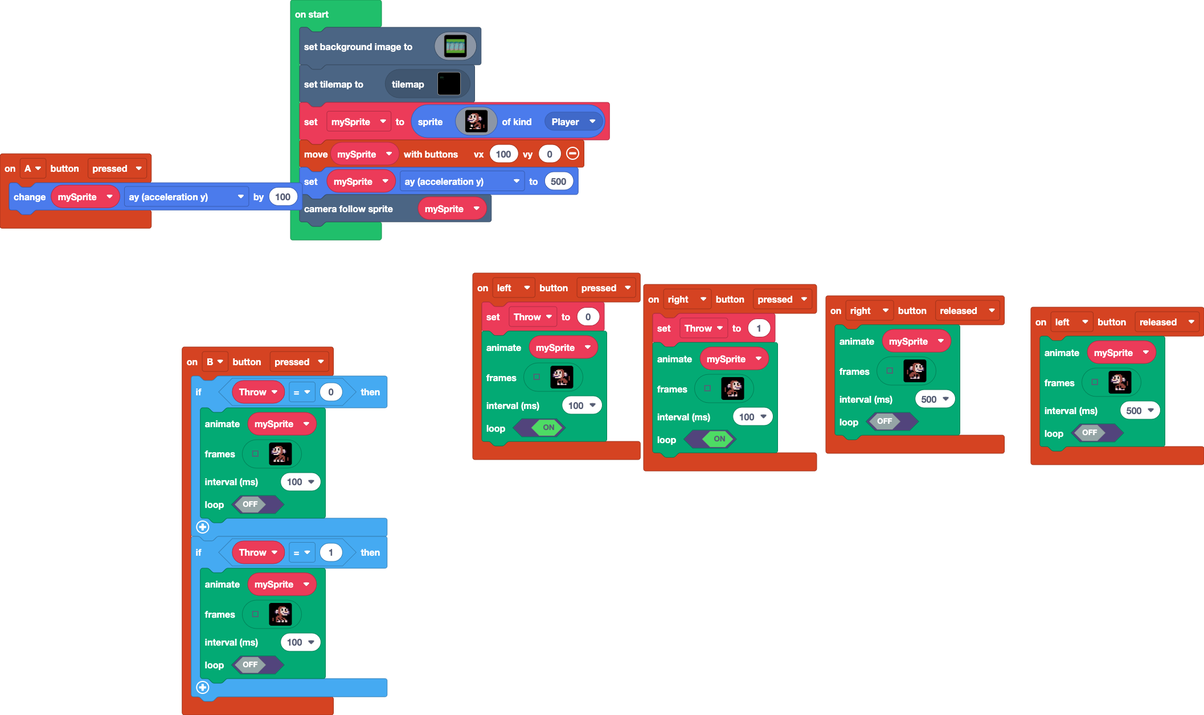
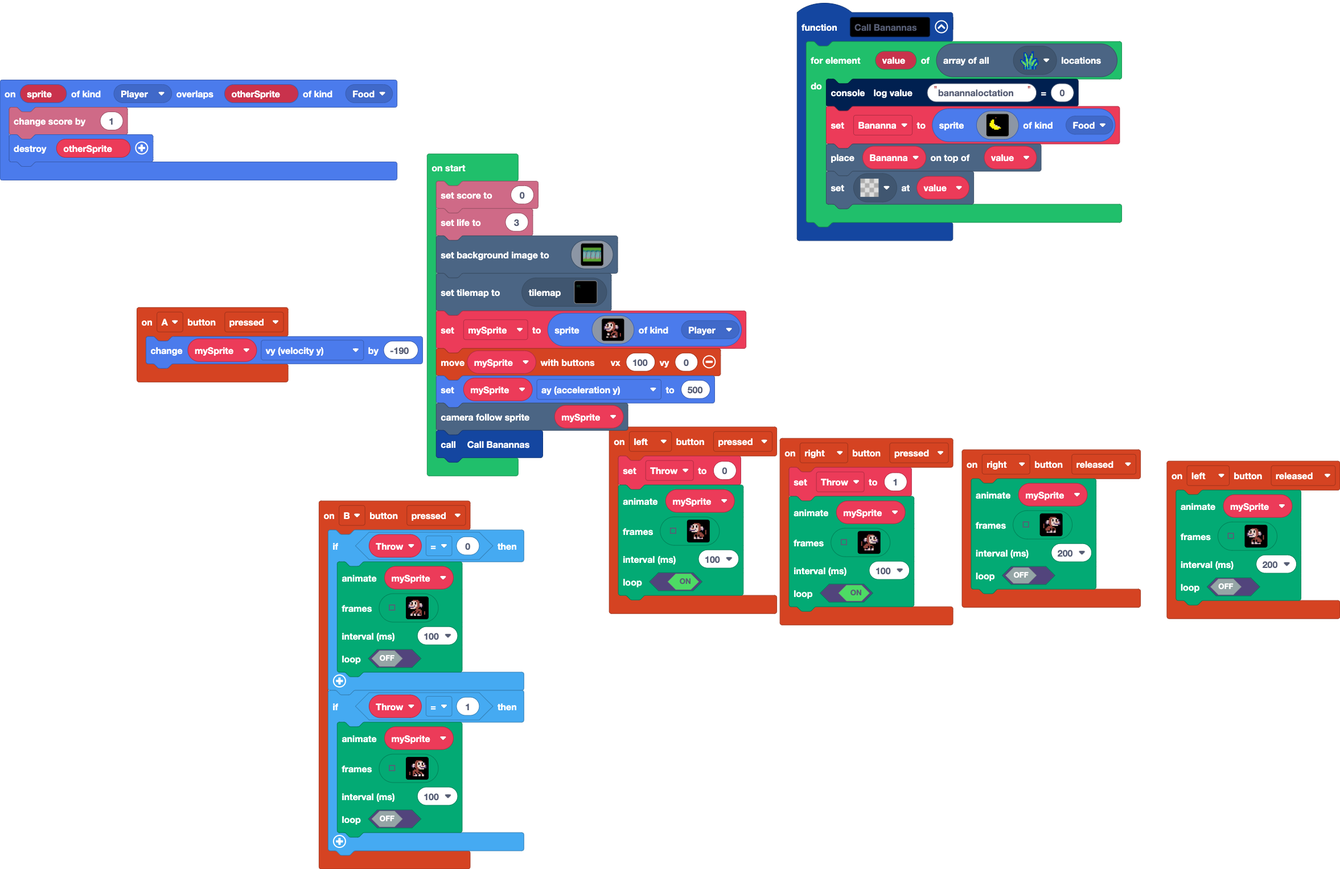
Banannas

diff --git a/tilemap.g.ts b/tilemap.g.ts
@@ -25,7 +25,7 @@ namespace myTiles {
 . . . . . . . . . . . . . . . . 
 `, [myTiles.transparency16], TileScale.Sixteen);
             case "level2":
-            case "level2":return tiles.createTilemap(hex`6400640000000000000000000000000000000000000000000000000000000000000000000000000000000000000000000000000000000000000000000000000000000000000000000000000000000000000000000000000000000000000000000000000000000000000000000000000000000000000000000000000000000000000000000000000000000000000000000000000000000000000000000000000000000000000000000000000000000000000000000000000000000000000000000000000000000000000000000000000000000000000000000000000000000000000000000000000000000000000000000000000000000000000000000000000000000000000000000000000000000000000000000000000000000000000000000000000000000000000000000000000000000000000000000000000000000000000000000000000000000000000000000000000000000000000000000000000000000000000000000000000000000000000000000000000000000000000000000000000000000000000000000000000000000000000000000000000000000000000000000000000000000000000000000000000000000000000000000000000000000000000000000000000000000000000000000000000000000000000000000000000000000000000000000000000000000000000000000000000000000000000000000000000000000000000000000000000000000000000000000000000000000000000000000000000000000000000000000000000000000000000000000000000000000000000000000000000000000000000000000000000000000000000000000000000000000000000000000000000000000000000000000000000000000000000000000000000000000000000000000000000000000000000000000000000000000000000000000000000000000000000000000000000000000000000000000000000000000000000000000000000000000000000000000000000000000000000000000000000000000000000000000000000000000000000000000000000000000000000000000000000000000000000000000000000000000000000000000000000000000000000000000000000000000000000000000000000000000000000000000000000000000000000000000000000000000000000000000000000000000000000000000000000000000000000000000000000000000000000000000000000000000000000000000000000000000000000000000000000000000000000000000000000000000000000000000000000000000000000000000000000000000000000000000000000000000000000000000000000000000000000000000000000000000000000000000000000000000000000000000000000000000000000000000000000000000000000000000000000000000000000000000000000000000000000000000000000000000000000000000000000000000000000000000000000000000000000000000000000000000000000000000000000000000000000000000000000000000000000000000000000000000000000000000000000000000000000000000000000000000000000000000000000000000000000000000000000000000000000000000000000000000000000000000000000000000000000000000000000000000000000000000000000000000000000000000000000000000000000000000000000000000000000000000000000000000000000000000000000000000000000000000000000000000000010101010101010101010101010101010000010000000000000000000000000000000000000000000000000000000000000000000000000000000000000000000000000000000000000000000000000000000000000000000000000000000000000000000100000000000000000000000000000000000100000000000000000000000000000000000000000000000000000000000000000000000000000000000000000000000000000000000000000000000000000000000000000000000000000000000000000001000000000000000000000000000000000001000000000000000000000000000000000000000000000000000000000000000000000000000000000000000000000000000000000000000000000000000000000000000000000000000000000000000000010000000000000000000000000000000001010000000000000000000000000000000000000000000000000000000000000000000000000000000000000000000000000000000000000000000000000000000000000000000000000000000000000000000100010101010101010101010101010101000000000000000000000000000000000000000000000000000000000000000000000000000000000000000000000000000000000000000000000000000000000000000000000000000000000000000000000001000000000000000000000000000000000000000000000000000000000000000000000000000000000000000000000000000000000000000000000000000000000000000000000000000000000000000000000000000000000000000000000000000000000000000000000000000000000000000000000000000000000000000000000000000000000000000000000000000000000000000000000000000000000000000000000000000000000000000000000000000000000000000000000000000000000000000000000000000000000000000000000000000000000000000000000000000000000000000000000000000000000000000000000000000000000000000000000000000000000000000000000000000000000000000000000000000000000000000000000000000000000000000000000000000000000000000000000000000000000000000000000000000000000000000000000000000000000000000000000000000000000000000000000000000000000000000000000000000000000000000000000000000000000101000000000000000000000001000000000000000000000000000000000000000000000000000000000000000000000000000000000000000000000000000000000000000000000000000000000000000000000000000000000000000000000000000000000000000000010000000001000000000000000000000000000000000000000000000000000000000000000000000000000000000000000000000000000000000000000000000000000000000000000000000000000000000000000000000000000000000000000000010000000000000000000001000000000000000000000000000000000000000000000000000000000000000000000000000000000000000000000000000000000000000000000000000000000000000000000000000000000000000000000000000000000000000000000000000000000100000000000000000000000000000000000000000000000000000000000000000000000000000000000000000000000000000000000000000000000000000000000000000000000000000000000000000000000000000000000000000000000000000000000000000000000000000000000000000000000000000000000000000000000000000000000000000000000000000000000000000000000000000000000000000000000000000000000000000000000000000000000000000000000000000000000000000000000000000000000000000000000000000000000000000000000000000000000000000000000000000000000000000000000000000000000000000000000000000000000000000000000000000000000000000000000000000000000000000000000000000000000000000000000000000000000000000000000000000000000000000000000000000000000000000000000000000000000000000000000000000000000000000000000000000000000000000000000000000000000000000000000000000000000000000000000000000000000000000000000000000000000000000000000000000000000000000000000000000000000000000000000000000000000000000000000000000000000000000000000000000000000000000000000000000000000000000000000000000000000000000000000000000000000000000000000000000000000000000000000000000000000000000000000000000000000000000000000000000000000000000000000000000000000000000000000000000000000000000000000000000000000000000000000000000000000000000000000000000000000000000000000000000000000000000000000000000000000000000000000000000000000000000000000000000000000000000000000000000000000000000000000000000000000000000000000000000000000000000000000000000000000000000000000000000000000000000000000000000000000000000000000000000000000000000000000000000000000000000000000000000000000000000000000000000000000000000000000000000000000000000000000000000000000000000000000000000000000000000000000000000000000000000000000000000000000000000000000000000000000000000000000000000000000000000000000000000000000000000000000000000000000000000000000000000000000000000000000000000000000000000000000000000000000000000000000000000000000000000000000000000000000000000000000000000000000000000000000000000000000000000000000000000000000000000000000000000000000000000000000000000000000000000000000000000000000000000000000000000000000000000000000000000000000000000000000000000000000000000000000000000000000000000000000000000000000000000000000000000000000000000000000000000000000000000000000000000000000000000000000000000000000000000000000000000000000000000000000000000000000000000000000000000000000000000000000000000000000000000000000000000000000000000000000000000000000000000000000000000000000000000000000000000000000000000000000000000000000000000000000000000000000000000000000000000000000000000000000000000000000000000000000000000000000000000000000000000000000000000000000000000000000000000000000000000000000000000000000000000000000000000000000000000000000000000000000000000000000000000000000000000000000000000000000000000000000000000000000000000000000000000000000000000000000000000000000000000000000000000000000000000000000000000000000000000000000000000000000000000000000000000000000000000000000000000000000000000000000000000000000000000000000000000000000000000000000000000000000000000000000000000000000000000000000000000000000000000000000000000000000000000000000000000000000000000000000000000000000000000000000000000000000000000000000000000000000000000000000000000000000000000000000000000000000000000000000000000000000000000000000000000000000000000000000000000000000000000000000000000000000000000000000000000000000000000000000000000000000000000000000000000000000000000000000000000000000000000000000000000000000000000000000000000000000000000000000000000000000000000000000000000000000000000000000000000000000000000000000000000000000000000000000000000000000000000000000000000000000000000000000000000000000000000000000000000000000000000000000000000000000000000000000000000000000000000000000000000000000000000000000000000000000000000000000000000000000000000000000000000000000000000000000000000000000000000000000000000000000000000000000000000000000000000000000000000000000000000000000000000000000000000000000000000000000000000000000000000000000000000000000000000000000000000000000000000000000000000000000000000000000000000000000000000000000000000000000000000000000000000000000000000000000000000000000000000000000000000000000000000000000000000000000000000000000000000000000000000000000000000000000000000000000000000000000000000000000000000000000000000000000000000000000000000000000000000000000000000000000000000000000000000000000000000000000000000000000000000000000000000000000000000000000000000000000000000000000000000000000000000000000000000000000000000000000000000000000000000000000000000000000000000000000000000000000000000000000000000000000000000000000000000000000000000000000000000000000000000000000000000000000000000000000000000000000000000000000000000000000000000000000000000000000000000000000000000000000000000000000000000000000000000000000000000000000000000000000000000000000000000000000000000000000000000000000000000000000000000000000000000000000000000000000000000000000000000000000000000000000000000000000000000000000000000000000000000000000000000000000000000000000000000000000000000000000000000000000000000000000000000000000000000000000000000000000000000000000000000000000000000000000000000000000000000000000000000000000000000000000000000000000000000000000000000000000000000000000000000000000000000000000000000000000000000000000000000000000000000000000000000000000000000000000000000000000000000000000000000000000000000000000000000000000000000000000000000000000000000000000000000000000000000000000000000000000000000000000000000000000000000000000000000000000000000000000000000000000000000000000000000000000000000000000000000000000000000000000000000000000000000000000000000000000000000000000000000000000000000000000000000000000000000000000000000000000000000000000000000000000000000000000000000000000000000000000000000000000000000000000000000000000000000000000000000000000000000000000000000000000000000000000000000000000000000000000000000000000000000000000000000000000000000000000000000000000000000000000000000000000000000000000000000000000000000000000000000000000000000000000000000000000000000000000000000000000000000000000000000000000000000000000000000000000000000000000000000000000000000000000000000000000000000000000000000000000000000000000000000000000000000000000000000000000000000000000000000000000000000000000000000000000000000000000000000000000000000000000000000000000000000000000000000000000000000000000000000000000000000000000000000000000000000000000000000000000000000000000000000000000000000000000000000000000000000000000000000000000000000000000000000000000000000000000000000000000000000000000000000000000000000000000000000000000000000000000000000000000000000000000000000000000000000000000000000000000000000000000000000000000000000000000000000000000000000000000000000000000000000000000000000000000000000000000000000000000000000000000000000000000000000000000000000000000000000000000000000000000000000000000000000000000000000000000000000000000000000000000000000000000000000000000000000000000000000000000000000000000000000000000000000000000000000000000000000000000000000000000000000000000000000000000000000000000000000000000000000000000000000000000000000000000000000000000000000000000000000000000000000000000000000000000000000000000000000000000000000000000000000000000000000000000000000000000000000000000000000000000000000000000000000000000000000000000000000000000000000000000000000000000000000000000000000000000000000000000000000000000000000000000000000000000000000000000000000000000000000000000000000000000000000000000000000000000000000000000000000000000000000000000000000000000000000000000000000000000000000000000000000000000000000000000000000000000000000000000000000000000000000000000000000000000000000000000000000000000000000000000000000000000000000000000000000000000000000000000000000000000000000000000000000000000000000000000000000000000000000000000000000000000000000000000000000000000000000000000000000000000000000000000000000000000000000000000000000000000000000000000000000000000000000000000000000000000000000000000000000000000000000000000000000000000000000000000000000000000000000000000000000000000000000000000000000000000000000000000000000000000000000000000000000000000000000000000000000000000000000000000000000000000000000000000000000000000000000000000000000000000000000000000000000000000000000000000000000000000000000000000000000000000000000000000000000000000000000000000000000000000000000000000000000000000000000000000000000000000000000000000000000000000000000000000000000000000000000000000000000000000000000000000000000000000000000000000000000000000000000000000000000000000000000000000000000000000000000000000000000000000000000000000000000000000000000000000000000000000000000000000000000000000000000000000000000000000000000000000000000000000000000000000000000000000000000000000000000000000000000000000000000000000000000000000000000000000000000000000000000000000000000000000000000000000000000000000000000000000000000000000000000000000000000000000000000000000000000000000000000000000000000000000000000000000000000000000000000000000000000000000000000000000000000000000000000000000000000000000000000000000000000000000000000000000000000000000000000000000000000000000000000000000000000000000000000000000000000000000000000000000000000000000000000000000000000000000000000000000000000000000000000000000000000000000000000000000000000000000000000000000000000000000000000000000000000000000000000000000000000000000000000000000000000000000000000000000000000000000000000000000000000000000000000000000000000000000000000000000000000000000000000000000000000000000000000000000000000000000000000000000000000000000000000000000000000000000000000000000000000000000000000000000000000000000000000000000000000000000000000000000000000000000000000000000000000000000000000000000000000000000000000000000000000000000000000000000000000000000000000000000000000000000000000000000000000000000000000000000000000000000000000000000000000000000000000000000000000000000000000000000000000000000000000000000000000000000000000000000000000000000000000000000000000000000000000000000000000000000000000000000000000000000000000000000000000000000000000000000000000000000000000000000000000000000000000000000000000000000000000000000000000000000000000000000000000000000000000000000000000000000000000000000000000000000000000000000000000000000000000000000000000000000000000000000000000000000000000000000000000000000000000000000000000000000000000000000000000000000000000000000000000000000000000000000000000000000000000000000000000000000000000000000000000000000000000000000000000000000000000000000000000000000000000000000000000000000000000000000000000000000000000000000000000000000000000000000000000000000000000000000000000000000000000000000000000000000000000000000000000000000000000000000000000000000000000000000000000000000000000000000000000000000000000000000000000000000000000000000000000000000000000000000000000000000000000000000000000000000000000000000000000000000000000000000000000000000000000000000000000000000000000000000000000000000000000000000000000000000000000000000000000000000000000000000000000000000000000000000000000000000000000000000000000000000000000000000000000000000000000000000000000000000000000000000000000000000000000000000000000000000000000000000000000000000000000000000000000000000000000000000000000000000000000000000000000000000000000000000000000000000000000000000000000000000000000000000000000000000000000000000000000000000000000000000000000000000000000000000000000000000000000000000000000000000000000000000000000000000000000000000000000000000000000000000000000000000000000000000000000000000000000000000000000000000000000000000000000000000000000000000000000000000000000000000000000000000000000000000000000000000000000000000000000000000000000000000000000000000000000000000000000000000000000000000000000000000000000000000000000000000000000000000000000000000000000000000000000000000000000000000000000000000000000000000000000000000000000000000000000000000000000000000000000000000000000000000000000000000000000000000000000000000000000000000000000000000000000000000000000000000000000000000000000000000000000000000000000000000000000000000000000000000000000000000000000000000000000000000000000000000000000000000000000000000000000000000000000000000000000000000000000000000000000000000000000000000000000000000000000000000000000000000000000000000000000000000000000000000000000000000000000000000000000000000000000000000000000000000000000000000000000000000000000000000000000000000000000000000000000000000000000000000000000000000000000000000000000000000000000000000000000000000000000000000000000000000000000000000000000000000000000000000000000000000000000000000000000000000000000000000000000000000000000000000000000000000000000000000000000000000000000000000000000000000000000000000000000000000000000000000000000000000000000000000000000000000000000000000000000000000000000000000000000000000000000000000000000000000000000000000000000000000000000000000000000000000000000000000000000000000000000000000000000000000000000000000000000000000000000000000000000000000000000000000000000000000000000000000000000000000000000000000000000000000000000000000000000000000000000000000000000000000000000000000000000000000000000000000000000000000000000000000000000000000000000000000000000000000000000000000000000000000000000000000000000000000000000000000000000000000000000000000000000000000000000000000000000000000000000000000000000000000000000000000000000000000000000000000000000000000000000000000000000000000000000000000000000000000000000000000000000000000000000000000000000000000000000000000000000000000000000000000000000000000000000000000000000000000000000000000000000000000000000000000000000000000000000000000000000000000000000000000000000000000000000000000000000000000000000000000000000000000000000000000000000000000000000000000000000000000000000000000000000000000000000000000000000000000000000000000000000000000000000000000000000000000000000000000000000000000000000000000000000000000000000000000000000000000000000000000000000000000000000000000000000000000000000000000000000000000000000000000000000000000000000000000000000000000000000000000000000000000000000000000000000000000000000000000000000000000000000000000000000000000000000000000000000000000000000000000000000000000000000000000000000000000000000000000000000000000000000000000000000000000000000000000000000000000000000000000000000000000000000000000000000000000000000000000000000000000000000000000000000000000000000000000000000000000000000000000000000000000000000000000000000000000000000000000000000000000000000000000000000000000000000000000000000000000000000000000000000000000000000000000000000000000000000000000000000000000000000000000000000000000000000000000000000000000000000000000000000000000000000000000000000000000000000000000000000000000000000000000000000000000000000000000000000000000000000000000000000000000000000000000000000000000000000000000000000000000000000000000000000000000000000000000000000000000000000000000000000000000000000000000000000000000000000000`, img`
+            case "level2":return tiles.createTilemap(hex`6400640000000000000000000000000000000000000000000000000000000000000000000000000000000000000000000000000000000000000000000000000000000000000000000000000000000000000000000000000000000000000000000000000000000000000000000000000000000000000000000000000000000000000000000000000000000000000000000000000000000000000000000000000000000000000000000000000000000000000000000000000000000000000000000000000000000000000000000000000000000000000000000000000000000000000000000000000000000000000000000000000000000000000000000000000000000000000000000000000000000000000000000000000000000000000000000000000000000000000000000000000000000000000000000000000000000000000000000000000000000000000000000000000000000000000000000000000000000000000000000000000000000000000000000000000000000000000000000000000000000000000000000000000000000000000000000000000000000000000000000000000000000000000000000000000000000000000000000000000000000000000000000000000000000000000000000000000000000000000000000000000000000000000000000000000000000000000000000000000000000000000000000000000000000000000000000000000000000000000000000000000000000000000000000000000000000000000000000000000000000000000000000000000000000000000000000000000000000000000000000000000000000000000000000000000000000000000000000000000000000000000000000000000000000000000000000000000000000000000000000000000000000000000000000000000000000000000000000000000000000000000000000000000000000000000000000000000000000000000000000000000000000000000000000000000000000000000000000000000000000000000000000000000000000000000000000000000000000000000000000000000000000000000000000000000000000000000000000000000000000000000000000000000000000000000000000000000000000000000000000000000000000000000000000000000000000000000000000000000000000000000000000000000000000000000000000000000000000000000000000000000000000000000000000000000000000000000000000000000000000000000000000000000000000000000000000000000000000000000000000000000000000000000000000000000000000000000000000000000000000000000000000000000000000000000000000000000000000000000000000000000000000000000000000000000000000000000000000000000000000000000000000000000000000000000000000000000000000000000000000000000000000000000000000000000000000000000000000000000000000000000000000000000000000000000000000000000000000000000000000000000000000000000000000000000000000000000000000000000000000000000000000000000000000000000000000000000000000000000000000000000000000000000000000000000000000002000000000000000000000000000000000000000000000000000000000000000000000000000000000000000000000000000000000000000000000000000000000000000000000000000000000000000000000000010101010101010101010101010101010000010000000000000000000000000000000000000000000000000000000000000000000000000000000000000000000000000000000000000000000000000000000000000000000000000000000000000000000102000000000000000000000000000000000100000000000000000000000000000000000000000000000000000000000000000000000000000000000000000000000000000000000000000000000000000000000000000000000000000000000000000001020000000000000000000000000000000201000000000000000000000000000000000000000000000000000000000000000000000000000000000000000000000000000000000000000000000000000000000000000000000000000000000000000000010000000000000000000000000000000001010000000000000000000000000000000000000000000000000000000000000000000000000000000000000000000000000000000000000000000000000000000000000000000000000000000000000000000100010101010101010101010101010101000000000000000000000000000000000000000000000000000000000000000000000000000000000000000000000000000000000000000000000000000000000000000000000000000000000000000000000001000000000000000000000000000000000000000000000000000000000000000000000000000000000000000000000000000000000000000000000000000000000000000000000000000000000000000000000000000000000000000000000000000000000000000000000000000000000000000000000000000000000000000000000000000000000000000000000000000000000000000000000000000000000000000000000000000000000000000000000000000000000000000000000000000000000000000000000000000000000000000000000000000000000000000000000000000000000000000000000000000000000000000000000000000000000000000000000000000000000000000000000000000000000000000000000000000000000000000000000000000200000000000000000000000200000000000000000000000000000000000000000000000000000000000000000000000000000000000000000000000000000000000000000000000000000000000000000000000000000000000000000000000000000101000000000002000000000001000000000000000000000000000000000000000000000000000000000000000000000000000000000000000000000000000000000000000000000000000000000000000000000000000000000000000000000000000000000000000000010000000001000000000000000000000000000000000000000000000000000000000000000000000000000000000000000000000000000000000000000000000000000000000000000000000000000000000000000000000000000000000000000000010000000000000000000001020000000000000000000000000000000000000000000000000000000000000000000000000000000000000000000000000000000000000000000000000000000000000000000000000000000000000000000000000000000000000000000000000000000300000000000000000000000000000000000000000000000000000000000000000000000000000000000000000000000000000000000000000000000000000000000000000000000000000000000000000000000000000000000000000000000000000000000000000000000000000000000000000000000000000000000000000000000000000000000000000000000000000000000000000000000000000000000000000000000000000000000000000000000000000000000000000000000000000000000000000000000000000000000000000000000000000000000000000000000000000000000000000000000000000000000000000000000000000000000000000000000000000000000000000000000000000000000000000000000000000000000000000000000000000000000000000000000000000000000000000000000000000000000000000000000000000000000000000000000000000000000000000000000000000000000000000000000000000000000000000000000000000000000000000000000000000000000000000000000000000000000000000000000000000000000000000000000000000000000000000000000000000000000000000000000000000000000000000000000000000000000000000000000000000000000000000000000000000000000000000000000000000000000000000000000000000000000000000000000000000000000000000000000000000000000000000000000000000000000000000000000000000000000000000000000000000000000000000000000000000000000000000000000000000000000000000000000000000000000000000000000000000000000000000000000000000000000000000000000000000000000000000000000000000000000000000000000000000000000000000000000000000000000000000000000000000000000000000000000000000000000000000000000000000000000000000000000000000000000000000000000000000000000000000000000000000000000000000000000000000000000000000000000000000000000000000000000000000000000000000000000000000000000000000000000000000000000000000000000000000000000000000000000000000000000000000000000000000000000000000000000000000000000000000000000000000000000000000000000000000000000000000000000000000000000000000000000000000000000000000000000000000000000000000000000000000000000000000000000000000000000000000000000000000000000000000000000000000000000000000000000000000000000000000000000000000000000000000000000000000000000000000000000000000000000000000000000000000000000000000000000000000000000000000000000000000000000000000000000000000000000000000000000000000000000000000000000000000000000000000000000000000000000000000000000000000000000000000000000000000000000000000000000000000000000000000000000000000000000000000000000000000000000000000000000000000000000000000000000000000000000000000000000000000000000000000000000000000000000000000000000000000000000000000000000000000000000000000000000000000000000000000000000000000000000000000000000000000000000000000000000000000000000000000000000000000000000000000000000000000000000000000000000000000000000000000000000000000000000000000000000000000000000000000000000000000000000000000000000000000000000000000000000000000000000000000000000000000000000000000000000000000000000000000000000000000000000000000000000000000000000000000000000000000000000000000000000000000000000000000000000000000000000000000000000000000000000000000000000000000000000000000000000000000000000000000000000000000000000000000000000000000000000000000000000000000000000000000000000000000000000000000000000000000000000000000000000000000000000000000000000000000000000000000000000000000000000000000000000000000000000000000000000000000000000000000000000000000000000000000000000000000000000000000000000000000000000000000000000000000000000000000000000000000000000000000000000000000000000000000000000000000000000000000000000000000000000000000000000000000000000000000000000000000000000000000000000000000000000000000000000000000000000000000000000000000000000000000000000000000000000000000000000000000000000000000000000000000000000000000000000000000000000000000000000000000000000000000000000000000000000000000000000000000000000000000000000000000000000000000000000000000000000000000000000000000000000000000000000000000000000000000000000000000000000000000000000000000000000000000000000000000000000000000000000000000000000000000000000000000000000000000000000000000000000000000000000000000000000000000000000000000000000000000000000000000000000000000000000000000000000000000000000000000000000000000000000000000000000000000000000000000000000000000000000000000000000000000000000000000000000000000000000000000000000000000000000000000000000000000000000000000000000000000000000000000000000000000000000000000000000000000000000000000000000000000000000000000000000000000000000000000000000000000000000000000000000000000000000000000000000000000000000000000000000000000000000000000000000000000000000000000000000000000000000000000000000000000000000000000000000000000000000000000000000000000000000000000000000000000000000000000000000000000000000000000000000000000000000000000000000000000000000000000000000000000000000000000000000000000000000000000000000000000000000000000000000000000000000000000000000000000000000000000000000000000000000000000000000000000000000000000000000000000000000000000000000000000000000000000000000000000000000000000000000000000000000000000000000000000000000000000000000000000000000000000000000000000000000000000000000000000000000000000000000000000000000000000000000000000000000000000000000000000000000000000000000000000000000000000000000000000000000000000000000000000000000000000000000000000000000000000000000000000000000000000000000000000000000000000000000000000000000000000000000000000000000000000000000000000000000000000000000000000000000000000000000000000000000000000000000000000000000000000000000000000000000000000000000000000000000000000000000000000000000000000000000000000000000000000000000000000000000000000000000000000000000000000000000000000000000000000000000000000000000000000000000000000000000000000000000000000000000000000000000000000000000000000000000000000000000000000000000000000000000000000000000000000000000000000000000000000000000000000000000000000000000000000000000000000000000000000000000000000000000000000000000000000000000000000000000000000000000000000000000000000000000000000000000000000000000000000000000000000000000000000000000000000000000000000000000000000000000000000000000000000000000000000000000000000000000000000000000000000000000000000000000000000000000000000000000000000000000000000000000000000000000000000000000000000000000000000000000000000000000000000000000000000000000000000000000000000000000000000000000000000000000000000000000000000000000000000000000000000000000000000000000000000000000000000000000000000000000000000000000000000000000000000000000000000000000000000000000000000000000000000000000000000000000000000000000000000000000000000000000000000000000000000000000000000000000000000000000000000000000000000000000000000000000000000000000000000000000000000000000000000000000000000000000000000000000000000000000000000000000000000000000000000000000000000000000000000000000000000000000000000000000000000000000000000000000000000000000000000000000000000000000000000000000000000000000000000000000000000000000000000000000000000000000000000000000000000000000000000000000000000000000000000000000000000000000000000000000000000000000000000000000000000000000000000000000000000000000000000000000000000000000000000000000000000000000000000000000000000000000000000000000000000000000000000000000000000000000000000000000000000000000000000000000000000000000000000000000000000000000000000000000000000000000000000000000000000000000000000000000000000000000000000000000000000000000000000000000000000000000000000000000000000000000000000000000000000000000000000000000000000000000000000000000000000000000000000000000000000000000000000000000000000000000000000000000000000000000000000000000000000000000000000000000000000000000000000000000000000000000000000000000000000000000000000000000000000000000000000000000000000000000000000000000000000000000000000000000000000000000000000000000000000000000000000000000000000000000000000000000000000000000000000000000000000000000000000000000000000000000000000000000000000000000000000000000000000000000000000000000000000000000000000000000000000000000000000000000000000000000000000000000000000000000000000000000000000000000000000000000000000000000000000000000000000000000000000000000000000000000000000000000000000000000000000000000000000000000000000000000000000000000000000000000000000000000000000000000000000000000000000000000000000000000000000000000000000000000000000000000000000000000000000000000000000000000000000000000000000000000000000000000000000000000000000000000000000000000000000000000000000000000000000000000000000000000000000000000000000000000000000000000000000000000000000000000000000000000000000000000000000000000000000000000000000000000000000000000000000000000000000000000000000000000000000000000000000000000000000000000000000000000000000000000000000000000000000000000000000000000000000000000000000000000000000000000000000000000000000000000000000000000000000000000000000000000000000000000000000000000000000000000000000000000000000000000000000000000000000000000000000000000000000000000000000000000000000000000000000000000000000000000000000000000000000000000000000000000000000000000000000000000000000000000000000000000000000000000000000000000000000000000000000000000000000000000000000000000000000000000000000000000000000000000000000000000000000000000000000000000000000000000000000000000000000000000000000000000000000000000000000000000000000000000000000000000000000000000000000000000000000000000000000000000000000000000000000000000000000000000000000000000000000000000000000000000000000000000000000000000000000000000000000000000000000000000000000000000000000000000000000000000000000000000000000000000000000000000000000000000000000000000000000000000000000000000000000000000000000000000000000000000000000000000000000000000000000000000000000000000000000000000000000000000000000000000000000000000000000000000000000000000000000000000000000000000000000000000000000000000000000000000000000000000000000000000000000000000000000000000000000000000000000000000000000000000000000000000000000000000000000000000000000000000000000000000000000000000000000000000000000000000000000000000000000000000000000000000000000000000000000000000000000000000000000000000000000000000000000000000000000000000000000000000000000000000000000000000000000000000000000000000000000000000000000000000000000000000000000000000000000000000000000000000000000000000000000000000000000000000000000000000000000000000000000000000000000000000000000000000000000000000000000000000000000000000000000000000000000000000000000000000000000000000000000000000000000000000000000000000000000000000000000000000000000000000000000000000000000000000000000000000000000000000000000000000000000000000000000000000000000000000000000000000000000000000000000000000000000000000000000000000000000000000000000000000000000000000000000000000000000000000000000000000000000000000000000000000000000000000000000000000000000000000000000000000000000000000000000000000000000000000000000000000000000000000000000000000000000000000000000000000000000000000000000000000000000000000000000000000000000000000000000000000000000000000000000000000000000000000000000000000000000000000000000000000000000000000000000000000000000000000000000000000000000000000000000000000000000000000000000000000000000000000000000000000000000000000000000000000000000000000000000000000000000000000000000000000000000000000000000000000000000000000000000000000000000000000000000000000000000000000000000000000000000000000000000000000000000000000000000000000000000000000000000000000000000000000000000000000000000000000000000000000000000000000000000000000000000000000000000000000000000000000000000000000000000000000000000000000000000000000000000000000000000000000000000000000000000000000000000000000000000000000000000000000000000000000000000000000000000000000000000000000000000000000000000000000000000000000000000000000000000000000000000000000000000000000000000000000000000000000000000000000000000000000000000000000000000000000000000000000000000000000000000000000000000000000000000000000000000000000000000000000000000000000000000000000000000000000000000000000000000000000000000000000000000000000000000000000000000000000000000000000000000000000000000000000000000000000000000000000000000000000000000000000000000000000000000000000000000000000000000000000000000000000000000000000000000000000000000000000000000000000000000000000000000000000000000000000000000000000000000000000000000000000000000000000000000000000000000000000000000000000000000000000000000000000000000000000000000000000000000000000000000000000000000000000000000000000000000000000000000000000000000000000000000000000000000000000000000000000000000000000000000000000000000000000000000000000000000000000000000000000000000000000000000000000000000000000000000000000000000000000000000000000000000000000000000000000000000000000000000000000000000000000000000000000000000000000000000000000000000000000000000000000000000000000000000000000000000000000000000000000000000000000000000000000000000000000000000000000000000000000000000000000000000000000000000000000000000000000000000000000000000000000000000000000000000000000000000000000000000000000000000000000000000000000000000000000000000000000000000000000000000000000000000000000000000000000000000000000000000000000000000000000000000000000000000000000000000000000000000000000000000000000000000000000000000000000000000000000000000000000000000000000000000000000000000000000000000000000000000000000000000000000000000000000000000000000000000000000000000000000000000000000000000000000000000000000000000000000000000000000000000000000000000000000000000000000000000000000000000000000000000000000000000000000000000000000000000000000000000000000000000000000000000000000000000000000000000000000000000000000000000000000000000000000000000000000000000000000000000000000000000000000000000000000000000000000000000000000000000000000000000000000000000000000000000000000000000000000000000000000000000000000000000000000000000000000000000000000000000000000000000000000000000000000000000000000000000000000000000000000000000000000000000000000000000000000000000000000000000000000000000000000000000000000000000000000000000000000000000000000000000000000000000000000000000000000000000000000000000000000000000000000000000000000000000000000000000000000000000000000000000000000000000000000000000000000000000000000000000000000000000000000000000000000000000000000000000000000000000000000000000000000000000000000000000000000000000000000000000000000000000000000000000000000000000000000000000000000000000000000000000000000000000000000000000000000000000000000000000000000000000000000000000000000000000000000000000000000000000000000000000000000000000000000000000000000000000000000000000000000000000000000000000000000000000000000000000000000000000000000000000000000000000000000000000000000000000000000000000000000000000000000000000000000000000000000000000000000000000000000000000000000000000000000000000000000000000000000000000000000000000000000000000000000000000000000000000000000000000000000000000000000000000000000000000000000000000000000000000000000000000000000000000000000000000000000000000000000000000000000000000000000000000000000000000000000000000000`, img`
 ....................................................................................................
 ....................................................................................................
 ....................................................................................................
@@ -126,7 +126,7 @@ namespace myTiles {
 ....................................................................................................
 ....................................................................................................
 ....................................................................................................
-`, [myTiles.transparency16,sprites.builtin.forestTiles0], TileScale.Sixteen);
+`, [myTiles.transparency16,sprites.builtin.forestTiles0,sprites.swamp.swampTile3,sprites.builtin.forestTiles4], TileScale.Sixteen);
         }
         return null;
     })

diff --git a/main.ts b/main.ts
@@ -221,7 +221,7 @@ controller.B.onEvent(ControllerButtonEvent.Pressed, function () {
     }
 })
 controller.A.onEvent(ControllerButtonEvent.Pressed, function () {
-    mySprite.ay += 100
+    mySprite.vy += -190
 })
 controller.left.onEvent(ControllerButtonEvent.Pressed, function () {
     Throw = 0
@@ -338,7 +338,7 @@ controller.right.onEvent(ControllerButtonEvent.Released, function () {
         . . . f d b b d d c d d f . . . 
         . . . f f f f f f f f f . . . . 
         `],
-    500,
+    200,
     false
     )
 })
@@ -363,7 +363,7 @@ controller.left.onEvent(ControllerButtonEvent.Released, function () {
         . . . f d d c d d b b d f . . . 
         . . . . f f f f f f f f f . . . 
         `],
-    500,
+    200,
     false
     )
 })
@@ -461,8 +461,40 @@ controller.right.onEvent(ControllerButtonEvent.Pressed, function () {
     true
     )
 })
+function Call_Banannas () {
+    for (let value of tiles.getTilesByType(sprites.swamp.swampTile3)) {
+        console.logValue("banannaloctation", 0)
+        Bananna = sprites.create(img`
+            . . . . . f f f . . . . . . . . 
+            . . . . . f e f . . . . . . . . 
+            . . . f f f f f . . . . . . . . 
+            . . f 5 5 f . . . . . . . . . . 
+            . f 5 5 5 f . . . . . . . . . . 
+            . f 5 5 5 f . . . . . . . . . . 
+            f 5 5 5 5 f . . . . . . . . . . 
+            f 5 5 5 5 d f f . . . . . . . . 
+            f 5 5 5 5 5 d d f f . . . . . . 
+            . f 5 5 5 5 5 5 d d f f . . . . 
+            . . f 5 5 5 5 5 5 5 5 f . . . . 
+            . . . f f 5 5 5 5 f f . . . . . 
+            . . . . . f f f f f . . . . . . 
+            . . . . . . . . . . . . . . . . 
+            . . . . . . . . . . . . . . . . 
+            . . . . . . . . . . . . . . . . 
+            `, SpriteKind.Food)
+        tiles.placeOnTile(Bananna, value)
+        tiles.setTileAt(value, assets.tile`transparency16`)
+    }
+}
+sprites.onOverlap(SpriteKind.Player, SpriteKind.Food, function (sprite, otherSprite) {
+    info.changeScoreBy(1)
+    otherSprite.destroy()
+})
+let Bananna: Sprite = null
 let Throw = 0
 let mySprite: Sprite = null
+info.setScore(0)
+info.setLife(3)
 scene.setBackgroundImage(img`
     7777777777777777777777777777777777777777777777777777777777777777777777777777777777777777777777777777777777777777777777777777777777777777777777777777777777777777
     7777777777777777777777777777777777777777777777777777777777777777777777777777777777777777777777777777777777777777777777777777777777777777777777777777777777777777
@@ -607,3 +639,4 @@ mySprite = sprites.create(img`
 controller.moveSprite(mySprite, 100, 0)
 mySprite.ay = 500
 scene.cameraFollowSprite(mySprite)
+Call_Banannas()
